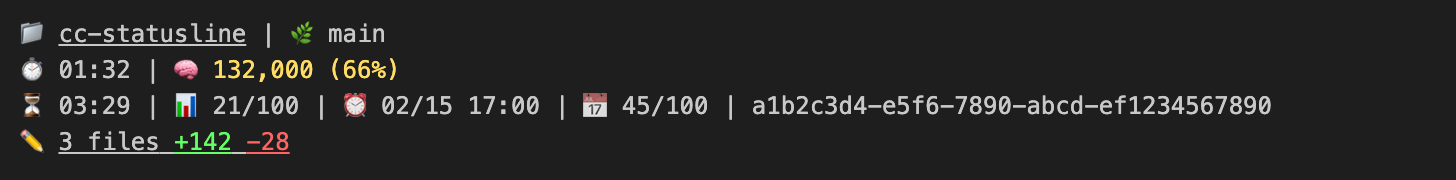
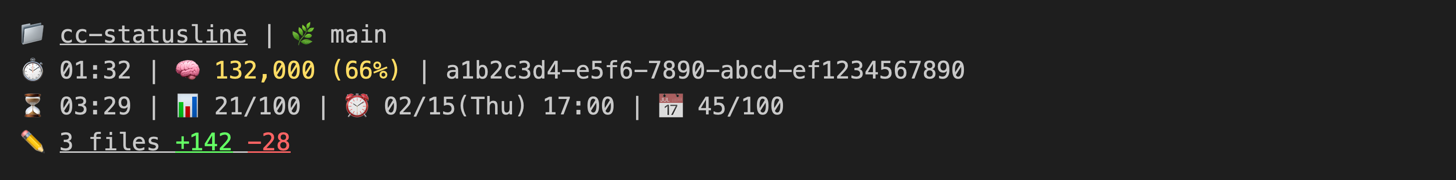
feat: show a localized weekday in the weekly reset timer (#92)
The ⏰ weekly reset timer went from `MM/DD HH:MM` to `MM/DD(weekday) HH:MM`,
with the weekday name following the current locale — `09/11(금) 07:00` under
`ko_KR.UTF-8`, `09/11(Fri) 07:00` under `en_US.UTF-8`. Only the weekday is
localized; the numeric parts keep their fixed shape.

The locale is read from the environment rather than left to Intl. Bun's (JSC's)
default Intl locale ignores the POSIX variables: on macOS with
`AppleLocale=ko_KR` and `LANG=ko_KR.UTF-8`, `new Intl.DateTimeFormat()
.resolvedOptions().locale` still resolves to `en-US` (bun 1.3.12), which would
have pinned every user to English weekdays. `src/format/resolveLocale.ts` reads
`LC_ALL` → `LC_TIME` → `LANG` in POSIX precedence and normalizes to BCP-47,
treating `C`/`POSIX` and unusable values as unset. As with 💰 `showCost`,
`index.ts` does the env read and `renderStatusLine` receives only the resolved
`locale`, so rendering stays pure.

Also regenerates the six README statusline screenshots, which additionally
picked up the session-ID move from #89 that the docs had never reflected, and
records two measurements in CLAUDE.md: abbreviated weekday names vary in length
within a locale for th/he/ar/hi/vi, and bun 1.3.12 segfaults during ICU init on
some `LANG` values — an upstream crash that predates this change and cannot be
guarded from JS.

diff --git a/src/format/resolveLocale.ts b/src/format/resolveLocale.ts
@@ -1,0 +1,49 @@
+type Env = Record<string, string | undefined>;
+
+// 시간 표기 로케일을 결정하는 env 키 — POSIX 우선순위 순서다.
+// integration 테스트가 main()의 env 격리 목록에 그대로 얹어 쓴다.
+export const LOCALE_ENV_KEYS = ["LC_ALL", "LC_TIME", "LANG"] as const;
+
+// POSIX 로케일("ko_KR.UTF-8@euro")에서 BCP-47 태그("ko-KR")만 남긴다.
+// 인코딩(.UTF-8)과 modifier(@euro)는 Intl이 모르는 표기라 떼어 낸다.
+// modifier는 종류를 가리지 않고 버리므로 script 변종도 함께 사라진다:
+// "sr_RS.UTF-8@latin"은 "sr-RS"(키릴)가 되어 라틴 표기 사용자에게 키릴 요일이
+// 나온다. 고치려면 @latin/@cyrillic만 -Latn/-Cyrl로 매핑하면 되지만, 나머지
+// modifier(@valencia·@euro 등)는 script가 아니라 일괄 규칙이 서지 않아 두었다.
+const toBcp47 = (posix: string): string | null => {
+	const base = posix.split(".")[0]?.split("@")[0]?.trim() ?? "";
+	// "C"/"POSIX"는 "지역화하지 말라"는 뜻의 특수값이다. "C"는 언어 서브태그
+	// 길이(2~8자)에 못 미쳐 어차피 아래 검증에서 걸리지만, "POSIX"는 5글자라
+	// 구조적으론 멀쩡한 태그로 통과해 버리므로 여기서 명시적으로 막는다.
+	if (!base || base === "C" || base === "POSIX") return null;
+
+	const tag = base.replace(/_/g, "-");
+	try {
+		Intl.DateTimeFormat.supportedLocalesOf([tag]);
+	} catch {
+		// 구조적으로 깨진 태그는 RangeError를 던진다 — 버리고 Intl 기본값으로.
+		// (지원하지 않는 태그는 여기서 안 걸리지만 Intl이 알아서 대체해 준다)
+		return null;
+	}
+	return tag;
+};
+
+// 현재 로케일을 env에서 해석한다. 못 고르면 null을 돌려 Intl 기본값에 위임한다.
+//
+// env를 직접 읽는 이유: Bun(JSC)의 Intl 기본 로케일은 이 변수들을 보지 않는다.
+// macOS에서 LANG=ko_KR.UTF-8인 셸에서도 `new Intl.DateTimeFormat()
+// .resolvedOptions().locale`이 "en-US"로 나온다 (bun 1.3.12 실측). 그래서
+// 터미널 로케일을 반영하려면 POSIX 변수를 직접 보는 수밖에 없다.
+export const resolveLocale = (env: Env = process.env): string | null => {
+	for (const key of LOCALE_ENV_KEYS) {
+		// 공백만 있는 값은 빈 문자열과 같이 "미설정"으로 본다 — 여기서 trim하지
+		// 않으면 LC_ALL=""는 다음 키로 넘어가는데 LC_ALL="  "는 truthy라 넘어가지
+		// 않고 끝나 버려, 같은 뜻의 두 값이 다르게 동작한다.
+		const raw = env[key]?.trim();
+		if (!raw) continue;
+		// 먼저 설정된 변수가 이긴다 — 값이 "C"처럼 쓸 수 없는 것이면 뒤 변수로
+		// 넘어가지 않고 그대로 Intl 기본값으로 간다 (POSIX 우선순위 그대로).
+		return toBcp47(raw);
+	}
+	return null;
+};

diff --git a/src/__tests__/pure.test.ts b/src/__tests__/pure.test.ts
@@ -71,24 +71,48 @@ describe("formatTime", () => {
 });
 
 describe("formatResetDate", () => {
-	test("formats date as MM/DD HH:MM", () => {
-		const date = new Date(2024, 1, 15, 17, 0);
-		expect(formatResetDate(date)).toBe("02/15 17:00");
+	test("formats date as MM/DD(weekday) HH:MM", () => {
+		const date = new Date(2024, 1, 15, 17, 0); // Thursday
+		expect(formatResetDate(date, "en-US")).toBe("02/15(Thu) 17:00");
 	});
 
 	test("zero-pads month, day, hours, minutes", () => {
 		const date = new Date(2024, 0, 5, 3, 7);
-		expect(formatResetDate(date)).toBe("01/05 03:07");
+		expect(formatResetDate(date, "en-US")).toBe("01/05(Fri) 03:07");
 	});
 
 	test("handles midnight", () => {
 		const date = new Date(2024, 2, 1, 0, 0);
-		expect(formatResetDate(date)).toBe("03/01 00:00");
+		expect(formatResetDate(date, "en-US")).toBe("03/01(Fri) 00:00");
 	});
 
 	test("handles end of day", () => {
 		const date = new Date(2024, 11, 31, 23, 59);
-		expect(formatResetDate(date)).toBe("12/31 23:59");
+		expect(formatResetDate(date, "en-US")).toBe("12/31(Tue) 23:59");
+	});
+
+	test("localizes the weekday name", () => {
+		// ko/ja는 CJK 한 글자라 CLDR가 바뀔 여지가 거의 없지만 es는 다르다 —
+		// 같은 계열인 fr는 "ven.", pt는 "sex."처럼 마침표가 붙는다. 스페인어
+		// 축약형이 그렇게 바뀌면 이 줄이 빨개지는데, 그건 회귀가 아니라 CLDR
+		// 갱신이다 (Bun 범프 직후라면 여기부터 의심할 것).
+		const date = new Date(2026, 8, 11, 7, 0); // Friday
+		expect(formatResetDate(date, "ko-KR")).toBe("09/11(금) 07:00");
+		expect(formatResetDate(date, "ja-JP")).toBe("09/11(金) 07:00");
+		expect(formatResetDate(date, "es-ES")).toBe("09/11(vie) 07:00");
+	});
+
+	test("defers to the host locale when the locale is null", () => {
+		// null은 "호스트 Intl 기본값에 맡긴다"는 뜻 — 요일 이름이 호스트에
+		// 달렸으므로 요일 자리가 채워진 형태만 검증한다
+		const date = new Date(2026, 8, 11, 7, 0);
+		expect(formatResetDate(date, null)).toMatch(/^09\/11\(.+\) 07:00$/u);
+	});
+
+	test("ignores an unsupported locale instead of throwing", () => {
+		// 존재하지 않는 언어 태그라도 Intl이 기본 로케일로 대체해 준다
+		const date = new Date(2026, 8, 11, 7, 0);
+		expect(formatResetDate(date, "zz-ZZ")).toMatch(/^09\/11\(.+\) 07:00$/u);
 	});
 });
 

diff --git a/src/__tests__/locale.test.ts b/src/__tests__/locale.test.ts
@@ -1,0 +1,66 @@
+import { describe, expect, test } from "bun:test";
+import { resolveLocale } from "../format/resolveLocale.ts";
+
+describe("resolveLocale", () => {
+	test("returns null when no locale env var is set", () => {
+		expect(resolveLocale({})).toBe(null);
+	});
+
+	test("converts a POSIX LANG value to a BCP-47 tag", () => {
+		expect(resolveLocale({ LANG: "ko_KR.UTF-8" })).toBe("ko-KR");
+	});
+
+	test("drops the encoding suffix", () => {
+		expect(resolveLocale({ LANG: "en_US.UTF-8" })).toBe("en-US");
+	});
+
+	test("drops the @modifier suffix", () => {
+		expect(resolveLocale({ LANG: "de_DE.UTF-8@euro" })).toBe("de-DE");
+	});
+
+	test("accepts a bare language without a region", () => {
+		expect(resolveLocale({ LANG: "ja" })).toBe("ja");
+	});
+
+	test("prefers LC_ALL over LC_TIME and LANG", () => {
+		expect(
+			resolveLocale({
+				LC_ALL: "ja_JP.UTF-8",
+				LC_TIME: "de_DE.UTF-8",
+				LANG: "ko_KR.UTF-8",
+			}),
+		).toBe("ja-JP");
+	});
+
+	test("prefers LC_TIME over LANG", () => {
+		expect(resolveLocale({ LC_TIME: "de_DE.UTF-8", LANG: "ko_KR.UTF-8" })).toBe(
+			"de-DE",
+		);
+	});
+
+	test("skips an empty value and falls through to the next key", () => {
+		expect(resolveLocale({ LC_ALL: "", LANG: "ko_KR.UTF-8" })).toBe("ko-KR");
+	});
+
+	test("treats a whitespace-only value the same as an empty one", () => {
+		// 공백만 있는 값도 "미설정"이라 다음 키로 넘어간다 — 빈 문자열과 갈리면
+		// 같은 뜻의 두 값이 다르게 동작한다
+		expect(resolveLocale({ LC_ALL: "   ", LANG: "ko_KR.UTF-8" })).toBe("ko-KR");
+	});
+
+	test("treats C and POSIX as no locale at all", () => {
+		expect(resolveLocale({ LANG: "C" })).toBe(null);
+		expect(resolveLocale({ LANG: "C.UTF-8" })).toBe(null);
+		expect(resolveLocale({ LANG: "POSIX" })).toBe(null);
+	});
+
+	test("does not fall through when the winning key is unusable", () => {
+		// POSIX 우선순위상 LC_ALL=C는 "지역화하지 말라"는 명시적 지시다 —
+		// 뒤에 LANG이 있어도 무시하고 Intl 기본값(null)으로 간다
+		expect(resolveLocale({ LC_ALL: "C", LANG: "ko_KR.UTF-8" })).toBe(null);
+	});
+
+	test("returns null for a structurally invalid tag", () => {
+		expect(resolveLocale({ LANG: "not a locale" })).toBe(null);
+	});
+});

diff --git a/src/format/formatResetDate.ts b/src/format/formatResetDate.ts
@@ -1,9 +1,25 @@
-// 리셋 시각을 "MM/DD HH:MM" 포맷으로 변환 (로컬 시간 기준)
-export const formatResetDate = (date: Date): string => {
+// 요일 이름을 locale에 맞춰 뽑는다 — ko-KR이면 "금", en-US면 "Fri".
+// locale이 null이면 Intl 기본값(호스트 로케일)에 맡긴다.
+// 포맷터는 렌더당 한 번만 만들어진다 (formatResetDate 호출이 렌더당 한 번).
+const weekdayOf = (date: Date, locale: string | null): string =>
+	new Intl.DateTimeFormat(locale ?? undefined, { weekday: "short" }).format(
+		date,
+	);
+
+// 리셋 시각을 "MM/DD(요일) HH:MM" 포맷으로 변환 (로컬 시간 기준).
+// 요일만 locale을 타고 나머지 자릿수 표기는 고정이다. 다만 그게 세그먼트 폭까지
+// 고정해 주진 않는다 — 축약 요일명은 로케일마다 길이가 다르고, th·he·ar·hi·vi는
+// 같은 로케일 안에서도 요일마다 달라 리셋 요일이 바뀌면 ⏰ 뒤 세그먼트가 주마다
+// 밀린다 (로케일별 실측은 CLAUDE.md).
+// locale 판정은 src/format/resolveLocale.ts가 하고 여기선 결과만 받는다
+// (💰 showCost와 같은 DI 방식). 기본값을 두지 않는 것도 그 관례를 따른 것 —
+// 기본값이 있으면 나중에 붙는 호출자가 인자를 빠뜨려도 타입 체커가 잡지 못해
+// 로케일이 조용히 사라진다. 호스트 기본값을 원하면 null을 명시적으로 넘긴다.
+export const formatResetDate = (date: Date, locale: string | null): string => {
 	const month = (date.getMonth() + 1).toString().padStart(2, "0");
 	const day = date.getDate().toString().padStart(2, "0");
 	const hours = date.getHours().toString().padStart(2, "0");
 	const minutes = date.getMinutes().toString().padStart(2, "0");
 
-	return `${month}/${day} ${hours}:${minutes}`;
+	return `${month}/${day}(${weekdayOf(date, locale)}) ${hours}:${minutes}`;
 };

diff --git a/src/__tests__/integration.test.ts b/src/__tests__/integration.test.ts
@@ -1,5 +1,6 @@
 import { afterEach, beforeEach, describe, expect, spyOn, test } from "bun:test";
 import { resetCache } from "../cache.ts";
+import { LOCALE_ENV_KEYS } from "../format/index.ts";
 import { main } from "../index.ts";
 
 // main()이 실제 process.env에서 읽는 키 전부 — 테스트가 개발자 셸에 흔들리지 않도록
@@ -8,6 +9,8 @@ const MAIN_ENV_KEYS = [
 	"CC_STATUSLINE_SHOW_COST",
 	"CC_STATUSLINE_DIFF_DISABLE",
 	"CC_STATUSLINE_DIFF_PORT",
+	// ⏰ 요일 이름이 개발자 셸의 로케일을 타지 않도록 함께 지운다
+	...LOCALE_ENV_KEYS,
 ] as const;
 
 describe("main function (integration)", () => {

diff --git a/src/index.ts b/src/index.ts
@@ -3,7 +3,7 @@
 import { isCostVisible } from "./config.ts";
 import { ensureDiffServer } from "./diff-server/ensure.ts";
 import { buildDiffViewerUrl } from "./diff-server/link.ts";
-import { toFileUrl } from "./format/index.ts";
+import { resolveLocale, toFileUrl } from "./format/index.ts";
 import {
 	getBaseChangesCached,
 	getBranchCached,
@@ -80,6 +80,7 @@ export const main = async (): Promise<void> => {
 		prInfo,
 		ultracode,
 		showCost: isCostVisible(),
+		locale: resolveLocale(),
 		rateLimits: claudeJson.rate_limits ?? null,
 		mainProjectName,
 		diffViewerUrl,

diff --git a/src/types.ts b/src/types.ts
@@ -74,6 +74,9 @@ export interface RenderContext {
 	// 💰 비용 세그먼트 표시 여부 (기본 false, CC_STATUSLINE_SHOW_COST=1로 켬).
 	// env 판정은 src/config.ts가 하고 render는 결과만 받는다 (기존 DI 방식 유지).
 	showCost: boolean;
+	// ⏰ 리셋 시각의 요일 이름에 쓸 BCP-47 로케일 (null이면 Intl 기본값).
+	// env 판정은 src/format/resolveLocale.ts가 하고 render는 결과만 받는다.
+	locale: string | null;
 	rateLimits: RateLimits | null;
 	mainProjectName: string | null;
 	diffViewerUrl: string | null;

diff --git a/src/__tests__/main.test.ts b/src/__tests__/main.test.ts
@@ -58,6 +58,8 @@ const createRenderContext = (
 	ultracode: overrides.ultracode ?? false,
 	// 프로덕션 기본과 동일하게 false — 💰를 보려면 테스트에서 명시적으로 켠다
 	showCost: overrides.showCost ?? false,
+	// 요일 이름이 개발자 호스트 로케일을 타지 않도록 테스트는 en-US로 고정한다
+	locale: overrides.locale ?? "en-US",
 	rateLimits: overrides.rateLimits ?? null,
 	mainProjectName: overrides.mainProjectName ?? null,
 	diffViewerUrl: overrides.diffViewerUrl ?? null,

diff --git a/src/render.ts b/src/render.ts
@@ -118,7 +118,9 @@ export const renderStatusLine = (ctx: RenderContext): string[] => {
 		const { resets_at, used_percentage } = ctx.rateLimits.seven_day;
 		if (resets_at) {
 			const resetTime = new Date(resets_at * 1000);
-			usageParts.push(`${C.WHITE}⏰ ${formatResetDate(resetTime)}${C.RESET}`);
+			usageParts.push(
+				`${C.WHITE}⏰ ${formatResetDate(resetTime, ctx.locale)}${C.RESET}`,
+			);
 		}
 		const weekColor = getUsageColor(used_percentage);
 		usageParts.push(

diff --git a/src/format/index.ts b/src/format/index.ts
@@ -8,4 +8,5 @@ export {
 	prStateColor,
 	prStateText,
 } from "./prStatus.ts";
+export { LOCALE_ENV_KEYS, resolveLocale } from "./resolveLocale.ts";
 export { toFileUrl } from "./toFileUrl.ts";

diff --git a/CLAUDE.md b/CLAUDE.md
@@ -22,6 +22,7 @@ cc-statusline/
 │   │   ├── formatTime.ts           # formatTime
 │   │   ├── getTimeUntilReset.ts    # getTimeUntilReset
 │   │   ├── prStatus.ts             # prStateText/prStateColor/ciSummaryText/ciSummaryColor (📎 상태·CI 배지)
+│   │   ├── resolveLocale.ts        # resolveLocale (⏰ 요일 이름에 쓸 로케일을 env에서 해석)
 │   │   └── toFileUrl.ts            # toFileUrl (📁/🌲 클릭용 file:// OSC 8 링크)
 │   ├── git/
 │   │   ├── index.ts                # barrel re-export
@@ -51,6 +52,7 @@ cc-statusline/
 │       ├── base-changes.test.ts    # getBaseChangesCached 테스트
 │       ├── base-ref.test.ts        # resolveBaseRef 테스트
 │       ├── ci-status.test.ts       # aggregateCiStatus 테스트
+│       ├── locale.test.ts          # resolveLocale (POSIX 로케일 → BCP-47) 테스트
 │       ├── diff-config.test.ts     # diff-server/config 테스트
 │       ├── diff-token.test.ts      # diff-server/token 테스트
 │       ├── diff-ensure.test.ts     # diff-server/ensure 테스트
@@ -93,6 +95,7 @@ cc-statusline/
 | 리셋 타이머 | `rate_limits.five_hour.resets_at` |
 | 주간 사용량 | `rate_limits.seven_day.used_percentage` |
 | 주간 리셋 시간 | `rate_limits.seven_day.resets_at` |
+| 리셋 요일 로케일 | env `LC_ALL` → `LC_TIME` → `LANG` (stdin엔 미노출, `src/format/resolveLocale.ts`) |
 | Git 브랜치 | `git branch --show-current` |
 | Git diff | `git diff --shortstat` + `git diff --cached --shortstat` (unstaged·staged 합산, `src/git/changes.ts`) |
 | PR URL/상태/CI | `gh pr view --json url,state,isDraft,statusCheckRollup` |
@@ -113,7 +116,7 @@ Claude Code 기본 statusbar에 다음 정보를 추가로 표시:
 - `✏` 진입점 유지: working 변경이 없어도 브랜치가 base보다 앞서면 `✏ vs <base> N files +X -Y`로 표시되고 클릭 시 뷰어가 base 모드로 열림 — 진입점 트리거는 `repo && (hasChanges || baseChanges)`(`src/index.ts`)
 - PR URL (클릭 가능한 OSC 8 하이퍼링크)
 - 리셋 시각 (5시간 사용량 리셋 시각, HH:MM)
-- 주간 리셋 시간 (7일 사용량 리셋 시각, MM/DD HH:MM)
+- 주간 리셋 시간 (7일 사용량 리셋 시각, `MM/DD(요일) HH:MM`) — 요일 이름만 로케일을 타고 나머지 자릿수 표기는 고정이다(`ko_KR.UTF-8`이면 `⏰ 09/11(금) 07:00`, `en_US.UTF-8`이면 `⏰ 09/11(Fri) 07:00`). **폭은 고정이 아니다** — 로케일마다 다를 뿐 아니라(`ko`·`ja` 1자, `zh`·`de`·`ru` 2자, `en`·`es` 3자, `fr`·`pt` 4자) 로케일에 따라선 **요일마다도 달라진다**. 실측(bun 1.3.12, 7요일 전부): `th` 3~7자, `he` 3~6자, `ar` 3~6자, `hi` 3~5자, `vi` 2~5자 — 이 로케일에선 리셋 요일이 바뀔 때마다 ⏰ 뒤의 `📅` 위치가 주마다 흔들린다. `en`·`ko`·`ja`·`zh`·`es`·`fr`·`de`·`ru`·`pt`는 요일별로 일정하다
 - 블록 사용량 (stdin rate_limits 기반 5시간/7일 사용률 %)
 - TrueColor 동적 색상 (임계값 기반 경고)
 
@@ -217,6 +220,7 @@ bun test --coverage
 - `shortstat.test.ts`: parseShortstat
 - `base-changes.test.ts` / `base-ref.test.ts`: vs-base 진입점 유지·base 결정
 - `ci-status.test.ts`: aggregateCiStatus (PR 체크 집계)
+- `locale.test.ts`: resolveLocale (POSIX 로케일 우선순위·BCP-47 변환)
 - `diff-config/token/ensure/link.test.ts`: diff-server 모듈별 테스트
 - `diff-contract.test.ts`: 실제 설치된 diffdeck 데몬과의 계약(핑 헤더·토큰 경로) + 버전 검증 3층(데몬=설치본 / 설치본∈range / 설치본=lockfile)
 
@@ -240,6 +244,8 @@ bun test --coverage
 - `rate_limits`는 Claude.ai 구독자(Pro/Max)에게만 첫 API 응답 이후 제공됨
 - `rate_limits.resets_at`는 Unix timestamp (초 단위, number)
 - `session_id`는 2번째 줄(세션 시간 줄) 오른쪽 끝에 붙는다 — `🤖` 모델 세그먼트가 있으면 그 오른쪽, 없으면 그 줄의 마지막 파트(⏱/💰/🧠 중 채워진 것) 오른쪽이다. 이 줄은 `⏱` 세션 시간이 항상 채우므로 `rate_limits` 유무와 무관하게 항상 렌더되고, session_id도 그 위에 얹힐 뿐이라 rate_limits를 볼모로 잡지 않는다(`src/render.ts`). 3번째 줄(사용량 줄)은 이제 `rate_limits` 파생 파트만 쌓으므로 `rate_limits`가 없으면 그 줄 자체가 사라진다
+- **⏰ 요일 이름의 로케일은 env에서 직접 읽는다** — `new Intl.DateTimeFormat()`의 기본 로케일에 맡기면 안 된다. Bun(JSC)의 Intl 기본값은 `LANG`·`LC_ALL`·`LC_TIME`을 보지 않아서, macOS `AppleLocale=ko_KR` + `LANG=ko_KR.UTF-8`인 셸에서도 `resolvedOptions().locale`이 `en-US`로 나온다(bun 1.3.12 실측). 그래서 `src/format/resolveLocale.ts`가 POSIX 우선순위(`LC_ALL` → `LC_TIME` → `LANG`)로 직접 읽어 `ko_KR.UTF-8` → `ko-KR`로 정규화한다(인코딩·`@modifier` 제거, `C`/`POSIX`는 미지정 취급). 셋 다 없거나 못 쓰는 값이면 `null`을 돌려 **런타임 Intl 기본값**에 맡기는데, 그 값은 위 실측대로 (bun 1.3.12/macOS 기준) `en-US`다 — macOS Terminal.app에서 "Set locale environment variables on startup"이 꺼져 있으면 `LANG`이 비어 한국어 사용자에게도 `(Mon)`이 나오므로, 요일이 영어로 보인다는 제보는 버그가 아니라 이 경로부터 의심할 것. 판정은 `src/index.ts`가 하고 `renderStatusLine`은 `locale: string | null`만 주입받는다(💰 `showCost`와 같은 DI) — `main()`을 타는 테스트가 이 세 env를 지워야 하는 이유도 같고, `integration.test.ts`의 `MAIN_ENV_KEYS`가 `LOCALE_ENV_KEYS`를 그대로 펼쳐 쓴다
+- **statusline이 통째로 죽었는데 스택 트레이스가 없다면 `LANG` 값을 볼 것** — bun 1.3.12는 어떤 `LANG` 값에서 ICU 초기화 중 세그폴트한다(`panic(main thread): Segmentation fault at address 0x8`, exit 133). 우리 코드와 무관하다: 프로젝트 코드가 전혀 없는 `LANG=... bun -e "new Intl.DateTimeFormat()"`도, `resolveLocale`이 없던 시절의 main도 똑같이 죽는다(main은 `formatNumber`의 `toLocaleString`이 ICU를 깨운다). **JS에서 막을 수 없다** — try/catch가 실행되기 전에 프로세스가 죽으므로 `resolveLocale`의 태그 검증이 덮어주지 못하는 유일한 구멍이다(그 검증은 `1234` 같이 JS까지 도달하는 값을 위한 것이고, 실제로 `1234`·`xx`·`zz_ZZ`는 전부 정상 degrade한다). 트리거는 값에 따라 갈리고 폭이 아주 좁다 — 실측에서 `not a locale`은 8/8 죽는데 구조가 같은 `a b`·`ko KR`·`en US x`·`xx y zzzzz`는 멀쩡했다. 상류 버그라 여기서 할 수 있는 건 오진하지 않는 것뿐이다
 - 💰 비용 세그먼트는 **기본 숨김**이고 env `CC_STATUSLINE_SHOW_COST=1`일 때만 렌더된다 (`src/config.ts`의 `isCostVisible`). 판정은 `CC_STATUSLINE_DIFF_DISABLE`과 같은 `"1"` 리터럴 규칙이라 `true`/`yes`는 안 먹는다. env 읽기는 `src/index.ts`가 하고 `renderStatusLine`은 `showCost: boolean`만 주입받는다(기존 DI 유지) — 따라서 **`main()`을 타는 테스트는 `process.env.CC_STATUSLINE_SHOW_COST`를 직접 지우고 복원해야** 개발자 셸 상태에 흔들리지 않는다 (`integration.test.ts`의 beforeEach/afterEach가 그렇게 한다)
 - ultracode 여부는 stdin JSON·env에 세션 단위로 노출되지 않음 (`effort.level`은 ultracode여도 `xhigh`로만 보고, CLI 2.1.201에서 실측 확인). 따라서 `src/ultracode.ts`가 Claude Code settings 파일(managed-settings.json → `<project>/.claude/settings.local.json` → `<project>/.claude/settings.json` → `~/.claude/settings.json`)의 `ultracode` boolean 키를 직접 읽는다 (5초 TTL 캐시, 읽기는 병렬·판정은 우선순위 순). 설정은 세션 상태가 아니므로 render에서 `effort.level === "xhigh"`와 교차검증해 false positive를 줄인다 (ultracode 세션은 항상 xhigh로 보고; 다만 수동 `/effort xhigh` + 설정 on 조합은 구분 불가라 best-effort). 캐시는 다른 캐시들과 마찬가지로 projectDir 무키(틱마다 새 프로세스라 실질 무해). 우선순위상 프로젝트 settings가 `ultracode: false`를 고정하면 user 설정 토글이 가려지는데 이는 Claude Code 해석 순서 그대로라 의도된 동작. 공식 스키마에 ultracode 필드가 추가되면 stdin 우선으로 전환할 것
 - TypeScript는 7.x(네이티브 Go 구현)를 쓴다. 6.x와 패키징이 다르다: **`tsserver`가 없고**(`bin`은 `tsc` 하나 — 6.x엔 `tsserver.js`·`tsserverlibrary.js`가 있었다), 패키지 `"."` export는 `lib/version.cjs`로 **버전 상수 두 개(`version`·`versionMajorMinor`)뿐**이며 **컴파일러 API는 `typescript/unstable/*`로 옮겨졌다**(`./unstable/sync`·`./unstable/ast` 등). 지금은 소스 어디서도 `typescript`를 import하지 않아 무해하지만, codemod나 AST 스크립트를 붙일 땐 이 경로를 봐야 한다. **번들링은 Bun이 한다**(`build.ts` = `Bun.build`)—`typescript`가 쓰이는 곳은 `typecheck` 게이트(`tsc --noEmit`)뿐이라 배포 산출물은 영향받지 않는다(6.0.3→7.0.2 범프 전후 `dist/index.js` 바이트 동일, sha256 `f9449ba3…`). 저장소엔 에디터 설정 파일이 없어 기본값(에디터 번들 TS)이면 무관하고, 개인 설정에서 "workspace TypeScript"를 쓰고 있다면 가리킬 `tsserver`가 없으니 그때 조정할 것. 린터도 무관하다 — `oxlint-tsgolint`는 `typescript` 패키지에 의존하지 않는 자체 네이티브 바이너리다(`dependencies` 자체가 없고 `@oxlint-tsgolint/<platform>`만 optional)

diff --git a/docs/README.es.md b/docs/README.es.md
@@ -62,7 +62,7 @@ Agrega lo siguiente a `~/.claude/settings.json`:
 - **TrueColor**: Colores dinámicos basados en umbrales
 - **Hora de reinicio**: Hora de reinicio del límite de 5 horas (HH:MM)
 - **Uso del bloque**: Porcentaje de utilización de 5 horas
-- **Temporizador de reinicio semanal**: Tiempo de reinicio del límite semanal (MM/DD HH:MM)
+- **Temporizador de reinicio semanal**: Tiempo de reinicio del límite semanal (MM/DD(vie) HH:MM — el nombre del día sigue tu configuración regional)
 - **Uso semanal**: Porcentaje de utilización de 7 días
 - **ID de sesión**: UUID completo de la sesión al final de la línea de tiempo de sesión (a la derecha del segmento del modelo), sin etiqueta de emoji — listo para copiar en `claude --resume <id>` o en una búsqueda de logs
 
@@ -149,7 +149,7 @@ Claude Code pasa `rate_limits` en la entrada JSON stdin (CLI 2.1.80+):
 1. **Utilización de 5 horas** - Porcentaje de uso del bloque de facturación actual (`rate_limits.five_hour.used_percentage`)
 2. **Utilización de 7 días** - Porcentaje de uso semanal (`rate_limits.seven_day.used_percentage`)
 3. **Temporizador de reinicio** - Tiempo exacto de reinicio (`rate_limits.five_hour.resets_at`), formato `HH:MM`
-4. **Temporizador de reinicio semanal** - Tiempo de reinicio del límite semanal (`rate_limits.seven_day.resets_at`), formato `MM/DD HH:MM` (ej., `02/15 17:00`)
+4. **Temporizador de reinicio semanal** - Tiempo de reinicio del límite semanal (`rate_limits.seven_day.resets_at`), formato `MM/DD(día) HH:MM`. El nombre del día sigue la configuración regional que definen `LC_ALL` / `LC_TIME` / `LANG` (ej., `02/15(jue) 17:00` con `es_ES.UTF-8`, `02/15(Thu) 17:00` con `en_US.UTF-8`). Si ninguna de las tres tiene un valor utilizable (sin definir, vacío, o `C`/`POSIX`, que significan «no localizar»), se recurre a la configuración regional predeterminada del runtime (`en-US` con el Bun actual). La Terminal de macOS deja `LANG` vacío salvo que se active «Set locale environment variables on startup»
 
 Las métricas de uso se **muestran automáticamente** cuando `rate_limits` está presente en el JSON stdin. No se necesitan flags ni configuración adicional.
 
